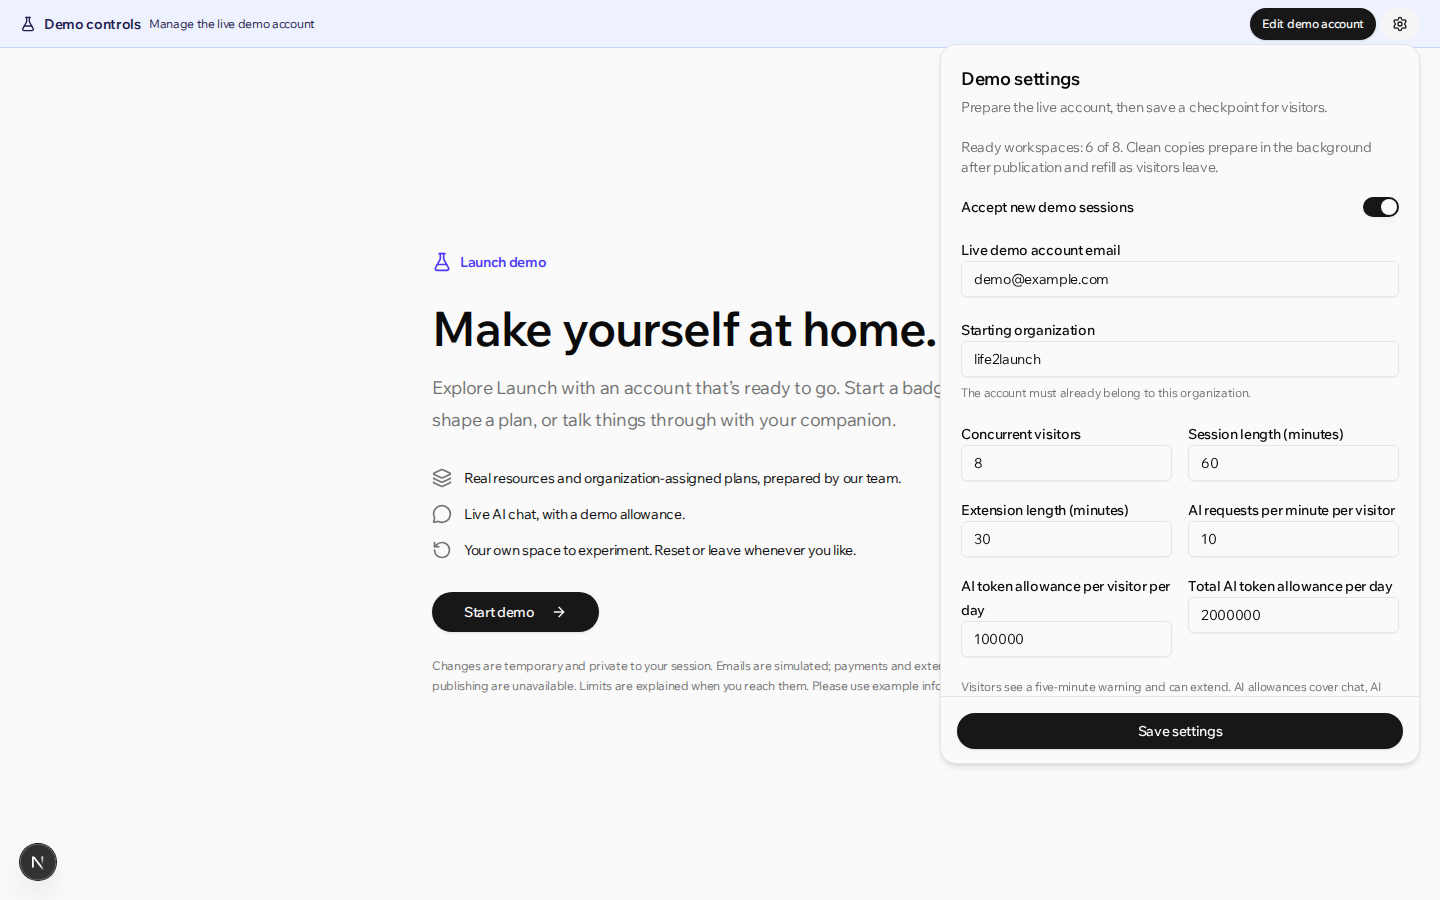
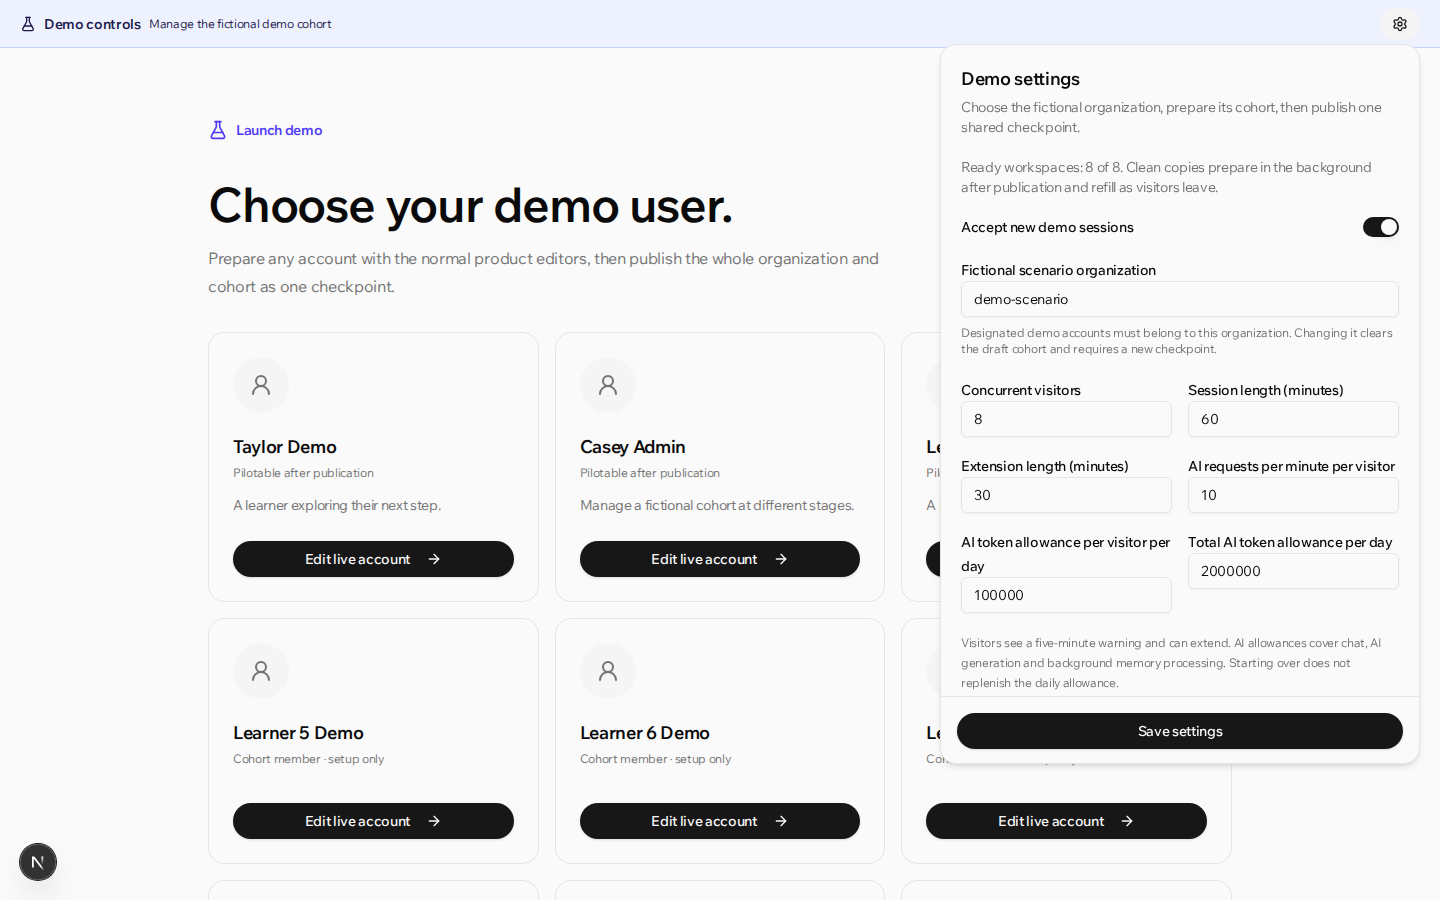
Record shared cohort demo verification and activation steps

diff --git a/docs/plans/active/demo-checkpoints/README.md b/docs/plans/active/demo-checkpoints/README.md
@@ -6,18 +6,24 @@ link this plan and the verification report to a BOT Story/workpad when access re
 
 ## Outcome and decisions
 
-A platform admin enters a designated real live user through the normal application,
-then manually publishes an immutable checkpoint. Each visitor starts a private,
+A platform admin designates a fictional live organization and its fake cohort,
+prepares those accounts through the normal application, then manually publishes one
+immutable checkpoint of the whole scenario. Only accounts marked pilotable appear
+on the visitor selector; all designated cohort members retain their actual identities.
+Each visitor starts a private,
 disposable copy at the demo entry point. Publishing never changes existing sessions.
 Target: 200 concurrent sessions, configurable admission control. Badges, assigned
 plans and real AI remain functional. No persistent countdown; warn five minutes
-before expiry and allow extension. Reset/end revoke old access, including other tabs.
+before expiry and allow extension. Reset/Back revoke old access, including other tabs.
+Back discards the copy and
+returns to user selection; Reset keeps the selected pilot.
 Reset and extension preserve abuse/spend accounting. External effects are explicitly
 simulated or visibly unavailable. Never change ordinary account behavior.
 
 ## Design readiness
 
-Existing code target: CandidateToolbar/CandidateExperience and adopted Button,
+Historical references v1–v3 (superseded where the owner amendment below differs):
+CandidateToolbar/CandidateExperience and adopted Button,
 Popover, Input, Label and Dialog. Owner explicitly authorized agent-designed UI.
 Use a slim indigo demo bar outside the normal application layout. Visitor: Demo,
 Changes are temporary, Reset demo, End demo. Admin: Demo admin, Editing live account,
@@ -36,7 +42,8 @@ Reference v3 keeps management controls on the live `/demo` page and active demo 
 at exactly 48px, subtracting that height from the Hub/sidebar viewport. Ordinary
 admin pages retain their existing layout. Reference v2 bounds the panel on phone with scrolling fields and a fixed Save footer.
 This refinement follows the owner's agent-design authorization; owner signoff remains
-pending. Current rendered evidence is inspected in [verification](verification.md).
+pending. Historical verification is in [verification](verification.md); the cohort amendment
+is tracked in [cohort verification](cohort-verification.md).
 
 ## Architecture
 
@@ -72,9 +79,12 @@ accounts. Admission and budget decisions serialize across workers.
 
 ## Implemented behavior and capacity
 
-- Manual publication snapshots the designated live learner and connected org content,
-  assigned plans, badges, portfolio and chat. Existing visits retain their snapshot.
-  A source account must have ordinary product permissions, not platform admin access.
+- Manual publication snapshots all designated fake accounts and connected org content,
+  programs, assigned plans/progress, badges, portfolios and chat. Existing visits retain
+  their snapshot. All pilots share that checkpoint, capacity and spend controls.
+  Cohort accounts must have ordinary product permissions, not platform admin access.
+  Real user records, memberships, personal work, invitations and typed identity references
+  are excluded. Fictional invitations and cohort resource links are preserved.
 - Admission defaults to a hard, configurable 200-visitor ceiling, counting queued visits.
   At capacity, Start explains that the demo is busy and supplies Retry-After.
   Normal product sessions do not consume this capacity.
@@ -112,10 +122,14 @@ host-only demo cookies; do not point visitors directly at the backend or live CD
 The normal live site remains the place admins edit the source account. No separate
 product fork is required.
 
-Apply the migration first; it seeds **disabled** demo settings. As a platform admin,
-open `/demo` on the live site and select Demo settings, select the existing learner's email and starting
-organization, set capacity/expiry/AI budgets and save. Enter Edit demo account, prepare
-it with normal editors and Save checkpoint. Enable new visits, let Ready workspaces
+Apply the migrations first; settings are **disabled**. The cohort migration also
+disables any previous single-user checkpoint. As a platform admin, open `/demo` on
+the live site. In Demo settings, choose the fictional organization and set limits.
+Use Manage demo accounts to designate its existing fake accounts, add optional
+descriptions, mark the few pilotable accounts and Save cohort. Enter Edit live account
+for any member, prepare it with normal editors, and use Switch demo user to prepare
+the next. Save checkpoint publishes the whole scenario, including the pilot selector.
+Enable new visits, let Ready workspaces
 fill, then share the demo link. Publish again whenever the source scenario or org
 content should become the new starting point. Re-publish after DB schema updates.
 
@@ -129,3 +143,28 @@ No production settings, DNS, database or deployment were changed in this task.
 Jira credentials are absent: BOT assignment/workpad and exact-revision Merge approval
 remain unavailable. Delivery stops at a checked PR; do not mark Jira Done or claim a
 verified dev deployment before the approved revision actually deploys.
+
+## Owner amendment: shared fictional scenario (2026-10-07)
+
+The owner selected one fictional org with an explicitly designated fake cohort
+(e.g. 20 learners), of which only a few accounts are pilotable. Save checkpoint
+captures all designated accounts, memberships, programs, plans and progress in one
+atomic snapshot. Each visit gets its own copy of that same snapshot; its selected
+pilot determines permissions. Preserve all fake identities. Drop real-user records
+and references; never import unrelated memberships or personal work. Actual product
+resources/badges remain connected; live chat remains metered. No per-user checkpoints.
+
+Reference v4: extend the existing /demo entry into a responsive card grid, using the
+users' actual names/avatars and optional descriptions, without custom display names.
+Authenticated platform operators manage cohort membership and pilot toggles from the
+same live /demo surface. They enter any cohort account with normal editors, then
+publish the whole scenario through the existing bar. Settings retains scenario org,
+capacity/duration/AI controls. Visitor End becomes Back to demo users, confirming
+that it discards work. Reset keeps the pilot and shared usage accounting. Visitor
+cards come from the published snapshot, never live profiles or unpublished changes.
+
+Reuse adopted Button/Input/Label/Switch/Textarea and existing Popover/Dialog/card
+patterns. Verify desktop 1440x900 and phone 390x844, light/dark selection, cohort
+management, nonpilot exclusion, admin switching/publication, visitor back/reset,
+org-admin cohort/progress, and no ordinary-admin banner/layout changes. Refresh
+rendered evidence and update PR #90; its earlier checks are historical after edits.

diff --git a/docs/plans/active/demo-checkpoints/cohort-verification.md b/docs/plans/active/demo-checkpoints/cohort-verification.md
@@ -1,0 +1,102 @@
+# Shared demo scenario verification
+
+Owner amendment: 2026-10-07. PR [#90](https://github.com/Life2LaunchLabs/launch-lms/pull/90)
+on `feat/disposable-demo-checkpoints`. Verified code revision:
+[`cffae72bd6560377524b275bc2dc9d35e8dbe433`](https://github.com/Life2LaunchLabs/launch-lms/commit/cffae72bd6560377524b275bc2dc9d35e8dbe433).
+The following evidence commit changes documentation/captures only. Owner signoff and approved dev deployment remain pending.
+All records and captures use synthetic fixtures.
+
+## Reference and scope
+
+Selected reference v4 in [the brief](README.md): one fictional live organization,
+20 designated fake people, three pilotable accounts, actual account identities and
+optional descriptions. One manual checkpoint captures the scenario; each visit is
+a separate workspace with permissions belonging to its selected pilot. Preserve
+fictional cohort identities and progress; drop real accounts and references.
+
+Reuse adopted controls and the existing 48px bar. Back confirms discard and returns
+to selection. Reset retains the pilot. Operators manage accounts on live `/demo`,
+enter even nonpilot members with normal editors, switch users and publish together.
+New settings/design changes supersede the initial single-user brief; earlier
+[verification](verification.md) remains historical evidence for the first iteration.
+
+## Checks and evidence
+
+- `./scripts/agent check --all`: documentation/product/source-size/architecture gates,
+  frontend lint/typecheck and five unit test files passed; API Ruff passed;
+  491 API tests passed with three dedicated PostgreSQL cases skipped in the default
+  suite. Those cases passed separately with `DEMO_TEST_DATABASE_URL` below.
+- Focused PostgreSQL checks: 25 passed, including 20-member capture with three
+  progress stages, real author/staff exclusion, fake pending invitation retention,
+  cross-org resource preservation, private copy isolation and revocation.
+- Migration roundtrip in a separate disposable DB: stamp current schema, downgrade
+  to `u1v2w3x4y5z6`, seed enabled legacy configuration, upgrade `v2w3x4y5z6a7`.
+  Admission disabled, old checkpoint cleared, source retained, cohort empty and
+  pilot selection column present. Active browser fixture was not downgraded.
+- `node scripts/verify-demo-browser.cjs`: desktop/phone entry, cancellation, reset,
+  Back, focus/Escape, settings, live editing, publication and switching.
+- `node scripts/verify-demo-cohort-browser.cjs`: public three-account selection,
+  operator 20-account management, nonpilot editing, program progress and permission
+  checks. [Scenario results](evidence/cohort-browser-results.json).
+
+- `test_demo_http_capacity.py`: 200 admissions across three pilots over 32 workers
+  in 5.71 seconds; visitor 201 returned 503. All copies contained 20 fake people,
+  private edits matched 200 authenticated reads, all three live pilot accounts stayed
+  unchanged. Cold preparation plus verification took 298.61 seconds.
+  [Scenario capacity results](evidence/cohort-capacity-results.json). This is synthetic
+  local evidence, not production sizing; warm copies prepare before admission.
+- Expiry/feature probe at both sizes: warning visible at four minutes, extension
+  preserved the session, assigned plan GET 200, cross-org badge start 200 and the
+  test-provider chat action appeared. [Feature results](evidence/expiry-feature-results.json).
+
+Required latest-head CI and browser jobs are available on [PR checks](https://github.com/Life2LaunchLabs/launch-lms/pull/90/checks).
+They must pass on the delivery head before owner-approved merge; earlier-head CI
+is historical and does not approve the amendment. See the PR description for the
+final delivery head and check links. No deployment is claimed.
+Paid provider transport is mocked and browser chat uses the explicit test provider;
+no paid production call, production activation or production deployment is involved.
+
+## Rendered inspection
+
+Current Chromium captures were inspected against reference v4 at 1440×900 and
+390×844: [public selection](evidence/entry-desktop.png),
+[phone selection](evidence/entry-phone.png), [dark selection](evidence/entry-dark-phone.png),
+[cohort management](evidence/cohort-manager-desktop.png),
+[phone management](evidence/cohort-manager-phone.png),
+[org-admin programs](evidence/org-admin-desktop.png),
+[phone org-admin programs](evidence/org-admin-phone.png),
+[expiry warning](evidence/expiry-phone.png) and existing reset/settings/live-editor
+views. Selection uses three equal cards on desktop and a vertical phone list, with
+actual fake names and descriptions. Management uses native controls and normal page
+scroll for 20 members; there is no phone horizontal overflow. Normal admin templates
+and their existing scrolling mobile tabs remain the product interface. The demo
+bar remains 48px, keeps Back/Reset reachable and shows no persistent countdown.
+The org-admin pilot has no platform navigation; ordinary platform-admin pages have
+no demo bar until entering /demo or live setup mode.
+
+Interaction evidence confirmed save feedback after the manager refresh, nonpilot live
+editing, all three prepared stages, learner/admin permission differences, Back
+revocation (401), Reset retaining the pilot, and source unchanged. Tests also verify
+published identity/description metadata survives draft changes and raster portraits
+are bound to their captured fake owner, never fetched from live profiles.
+
+Inspection/testing found and fixed wrong default-org entry routing, cross-org badge
+paths/issuer permissions omitted from export, and manager feedback lost on refresh.
+The optional PostgreSQL regression captures badge versions/paths/pages, permissions,
+cohort resource links and fake pending invitations. No owner-accepted deviations or
+new screenshot baseline are implied; owner signoff remains pending.
+
+## Owner test steps
+
+1. On live `/demo`, configure a fictional organization and designate its fake cohort.
+   Mark two or three accounts pilotable, including an org admin; add descriptions.
+2. Enter different members with Edit live account, prepare plans and progress using
+   normal editors, switch accounts, then Save checkpoint once.
+3. Open separate private browser windows on the demo link. Only pilotable accounts
+   appear. Their actual names/avatars/descriptions come from publication.
+4. Try the learner and org-admin views. Check normal cohort interactions, badges,
+   assigned plans and chat. Edits stay private to each visit.
+5. Reset retains the pilot. Back discards work and returns to the selector. Choosing
+   another pilot starts a clean workspace without replenishing AI allowance.
+6. Change live profiles, descriptions or progress. Visitors keep the published
+   scenario until the next manual Save checkpoint; existing visits remain pinned.

diff --git a/docs/design/README.md b/docs/design/README.md
@@ -7,7 +7,7 @@ Every UI-affecting task starts here. This is the repository-owned reference inde
 | Scope | Story / durable product context | Location | Authority |
 |---|---|---|---|
 | Hub companion layouts, awareness and future plan co-creation | BOT-82; PATHWAYS-G006-A001/A002/A004; PATHWAYS-G001-A003 | [Commission and concept drop folder](../../scripts/docs/BOT-82-companion/concepts/README.md), [build plan](../../scripts/docs/BOT-82-companion/build-plan.md) | Brief; no owner-selected concept files registered yet |
-| Disposable demo checkpoints | Owner conversation 2026-10-06; PLATFORM-G007-A004 | [Design brief](../plans/active/demo-checkpoints/README.md), [rendered verification](../plans/active/demo-checkpoints/verification.md) | Owner authorized agent-designed UI; brief v1 and settings refinement v2; owner signoff pending |
+| Disposable demo checkpoints | Owner conversation 2026-10-06; PLATFORM-G007-A004 | [Design brief](../plans/active/demo-checkpoints/README.md), [rendered verification](../plans/active/demo-checkpoints/verification.md) | Owner authorized agent-designed UI; shared-scenario reference v4; [cohort verification](../plans/active/demo-checkpoints/cohort-verification.md); owner signoff pending |
 | Shared Launch components and tokens | BOT-27; applies across product surfaces | [Catalog](../../apps/web/design-system/catalog.json), [contribution guide](../../apps/web/design-system/README.md) | Adopted component standards; not a page mockup |
 | Hub resource carousel and Notes/Reviews | BOT-77/BOT-108 area | [Existing QA record](../../design-qa.md) | Historical evidence index; attachment references are not durable image files. Current rendered comparison remains unverified in that record. |
 | Candidate feedback surface | BOT-168/BOT-210 | [Feedback verification](../../scripts/docs/BOT-168-candidate-feedback-verification.md), [interaction verification](../../scripts/docs/BOT-210-feedback-verification.md) | Historical implementation evidence; external-surface replacement must establish new references |

diff --git a/docs/product/index.md b/docs/product/index.md
@@ -1351,10 +1351,10 @@ Give authorized operators evidence about use, tools for tenant-wide governance, 
     - `PLATFORM-G007-A003-S001` [planned / core] Review candidate announcements and merge updates
     - `PLATFORM-G007-A003-S002` [planned / core] Submit and continue candidate feedback
     - `PLATFORM-G007-A003-S003` [planned / core] Operate platform tester feedback
-  - `PLATFORM-G007-A004` [planned] Provide private disposable product demos from a live account
-    - `PLATFORM-G007-A004-S001` [planned / action] Start and explore a private demo
-    - `PLATFORM-G007-A004-S002` [planned / action] Reset, extend or end a demo session
-    - `PLATFORM-G007-A004-S003` [planned / action] Prepare the live account and publish a checkpoint
+  - `PLATFORM-G007-A004` [planned] Provide private disposable demos from a shared fictional scenario
+    - `PLATFORM-G007-A004-S001` [planned / action] Choose a pilot and explore a private scenario
+    - `PLATFORM-G007-A004-S002` [planned / action] Reset, extend or return to demo user selection
+    - `PLATFORM-G007-A004-S003` [planned / action] Designate and prepare the fictional cohort, then publish one checkpoint
     - `PLATFORM-G007-A004-S004` [planned / action] Configure demo capacity and AI allowances
 
 ## LEGACY: Legacy, compatibility, and not-yet-delivered scope

diff --git a/docs/plans/active/demo-checkpoints/verification.md b/docs/plans/active/demo-checkpoints/verification.md
@@ -1,5 +1,8 @@
 # Demo checkpoint verification
 
+Historical first-iteration report. The owner's shared fictional scenario amendment
+and refreshed captures are documented in [cohort verification](cohort-verification.md).
+
 Initial implementation revision: `680195bf2dcfff1006b0c26b24347c169b965c1f` on
 `feat/disposable-demo-checkpoints`. PR #90 includes subsequent CI regression fixes;
 the verified code revision is `f86f3b6c5bad264ebe74ec0d9bbb1d3c870d68b5`.
